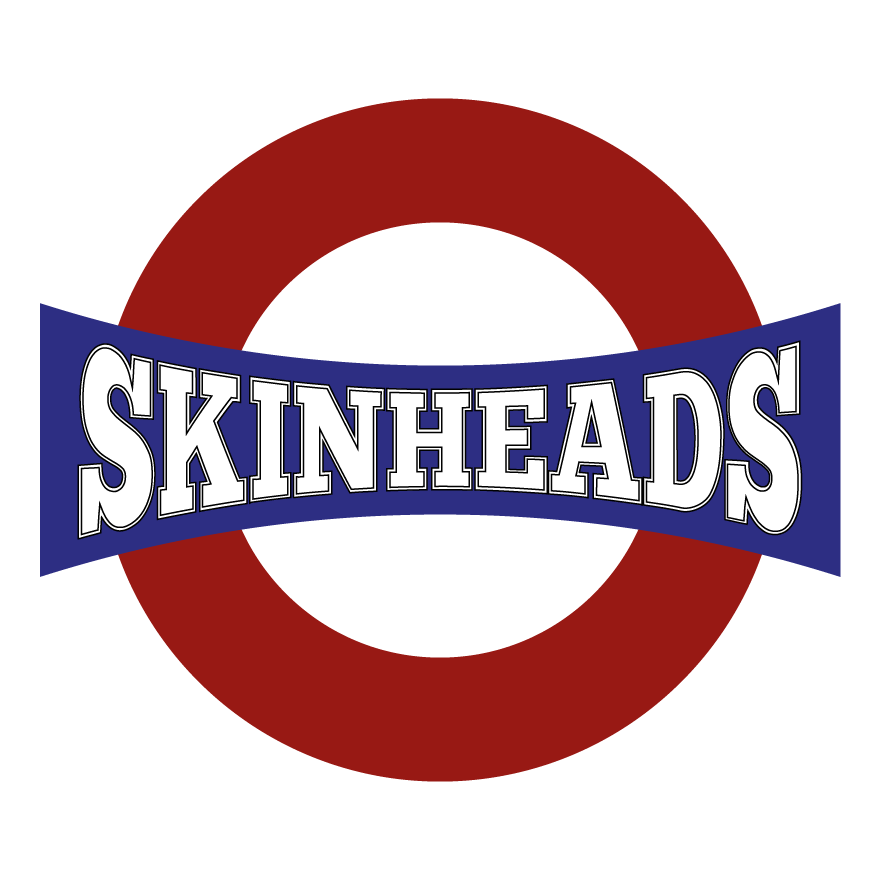
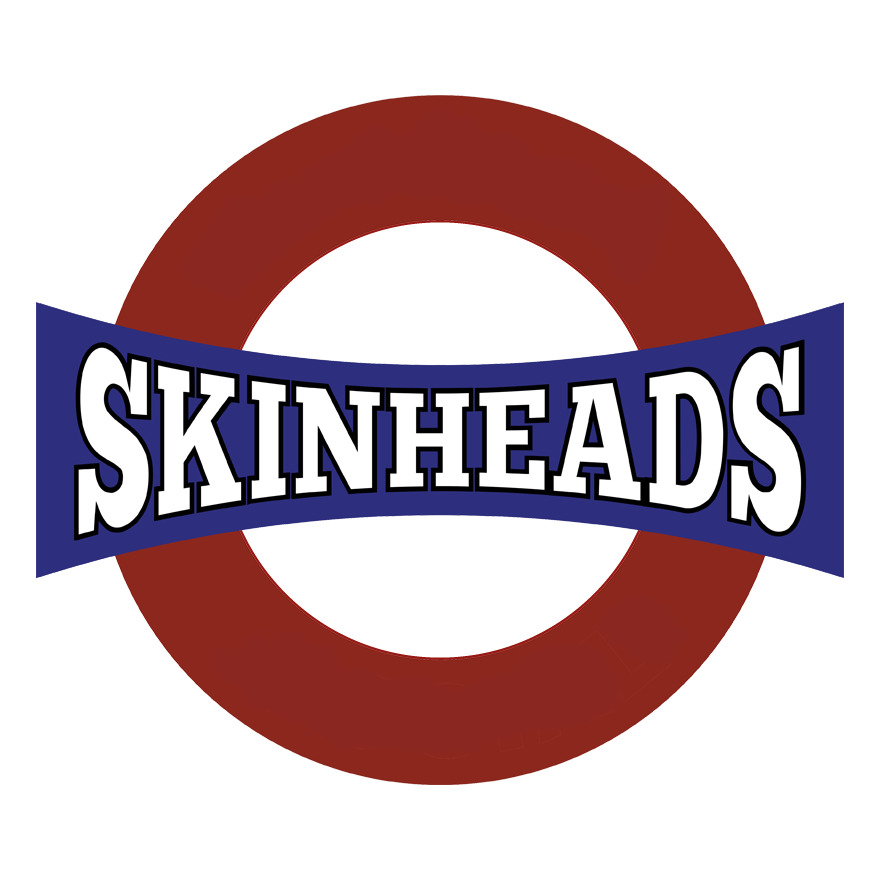
customisation

diff --git a/mattermost-webapp/sass/routes/_signup.scss b/mattermost-webapp/sass/routes/_signup.scss
@@ -142,7 +142,9 @@ body {
     h1 {
         font-weight: 600;
         color: #931020 !important;
-        text-shadow: 0 0 3px #FFFFFF;
+        text-shadow: 0 0 3px black;
+        -webkit-text-stroke-width: 1px;
+        -webkit-text-stroke-color: white;
     }
 
     h2 {
@@ -156,8 +158,10 @@ body {
         margin: 0 0 1.3em;
         font-size: 1.5em;
         font-weight: 600;
-        color: #000000 !important;
-        text-shadow: 0 0 3px #FFFFFF;
+        color: #FFFFFF !important;
+        text-shadow: 0 0 3px black;
+        -webkit-text-stroke-width: 1px;
+        -webkit-text-stroke-color: #931020;
     }
 
     h4 {
@@ -180,7 +184,7 @@ body {
         margin-bottom: 1em;
         color: #555;
         line-height: 1.5;
-        
+
         .black,
         &.black {
             color: #000;
